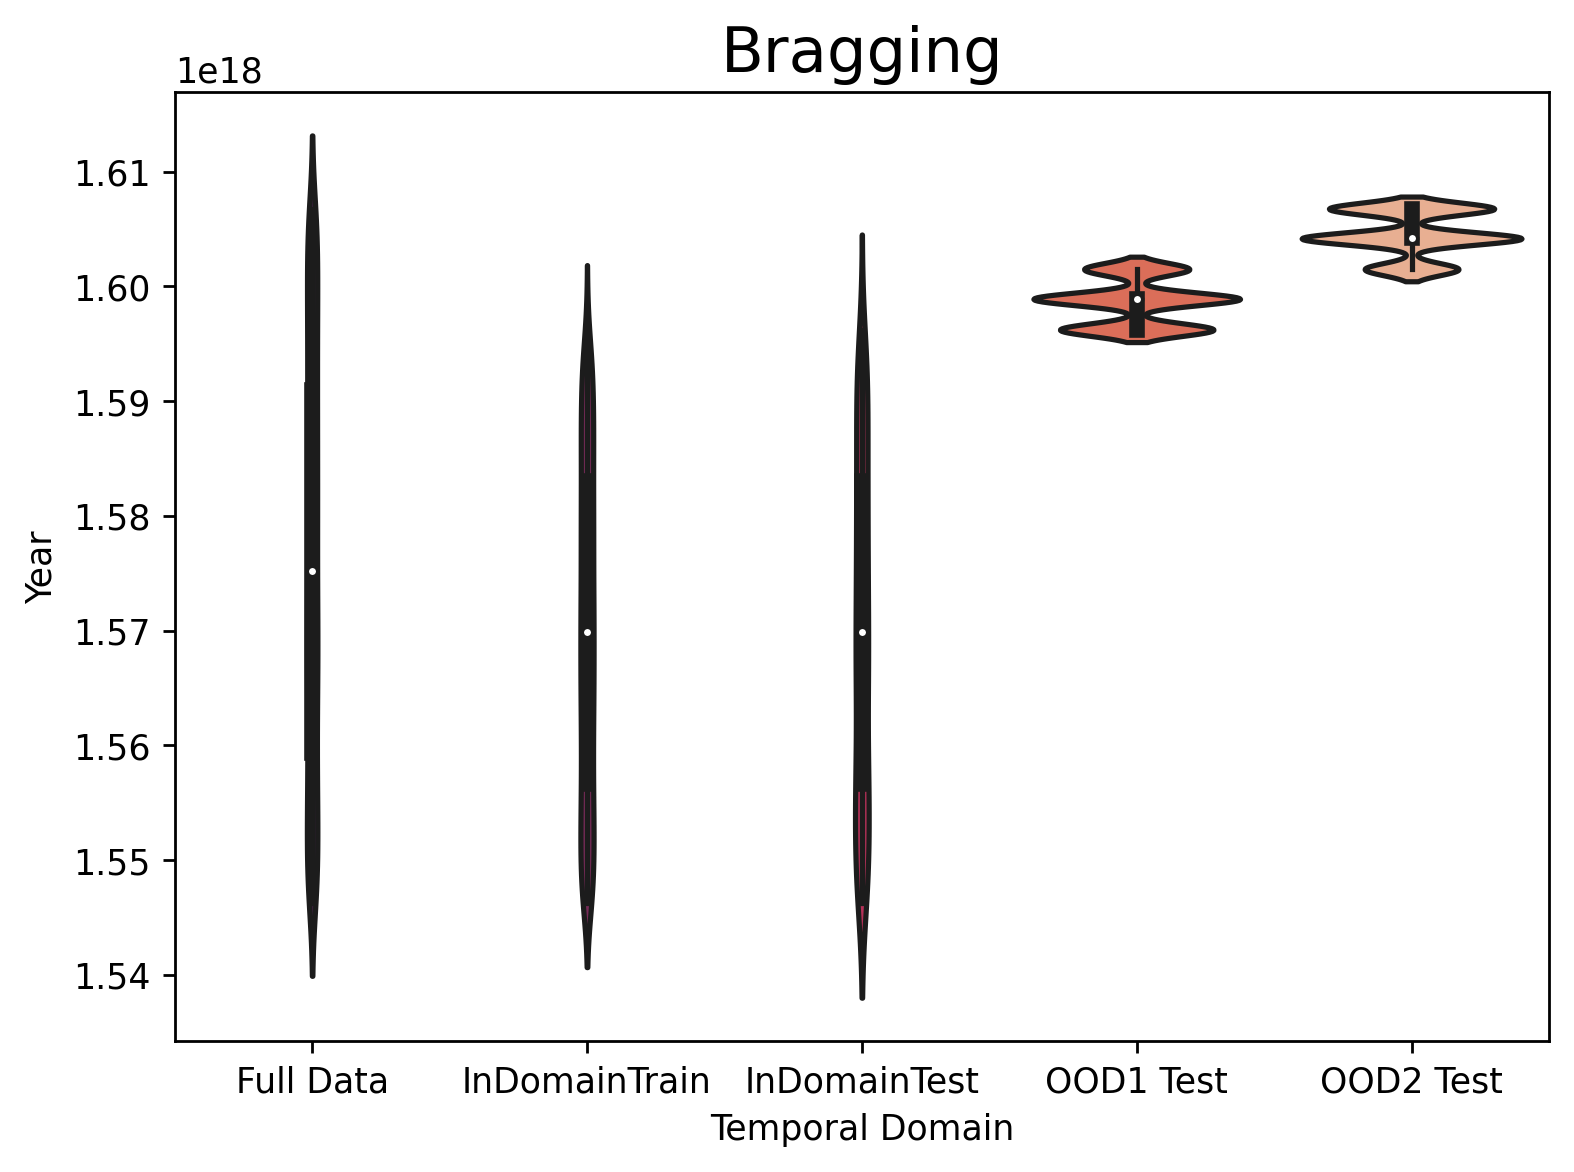
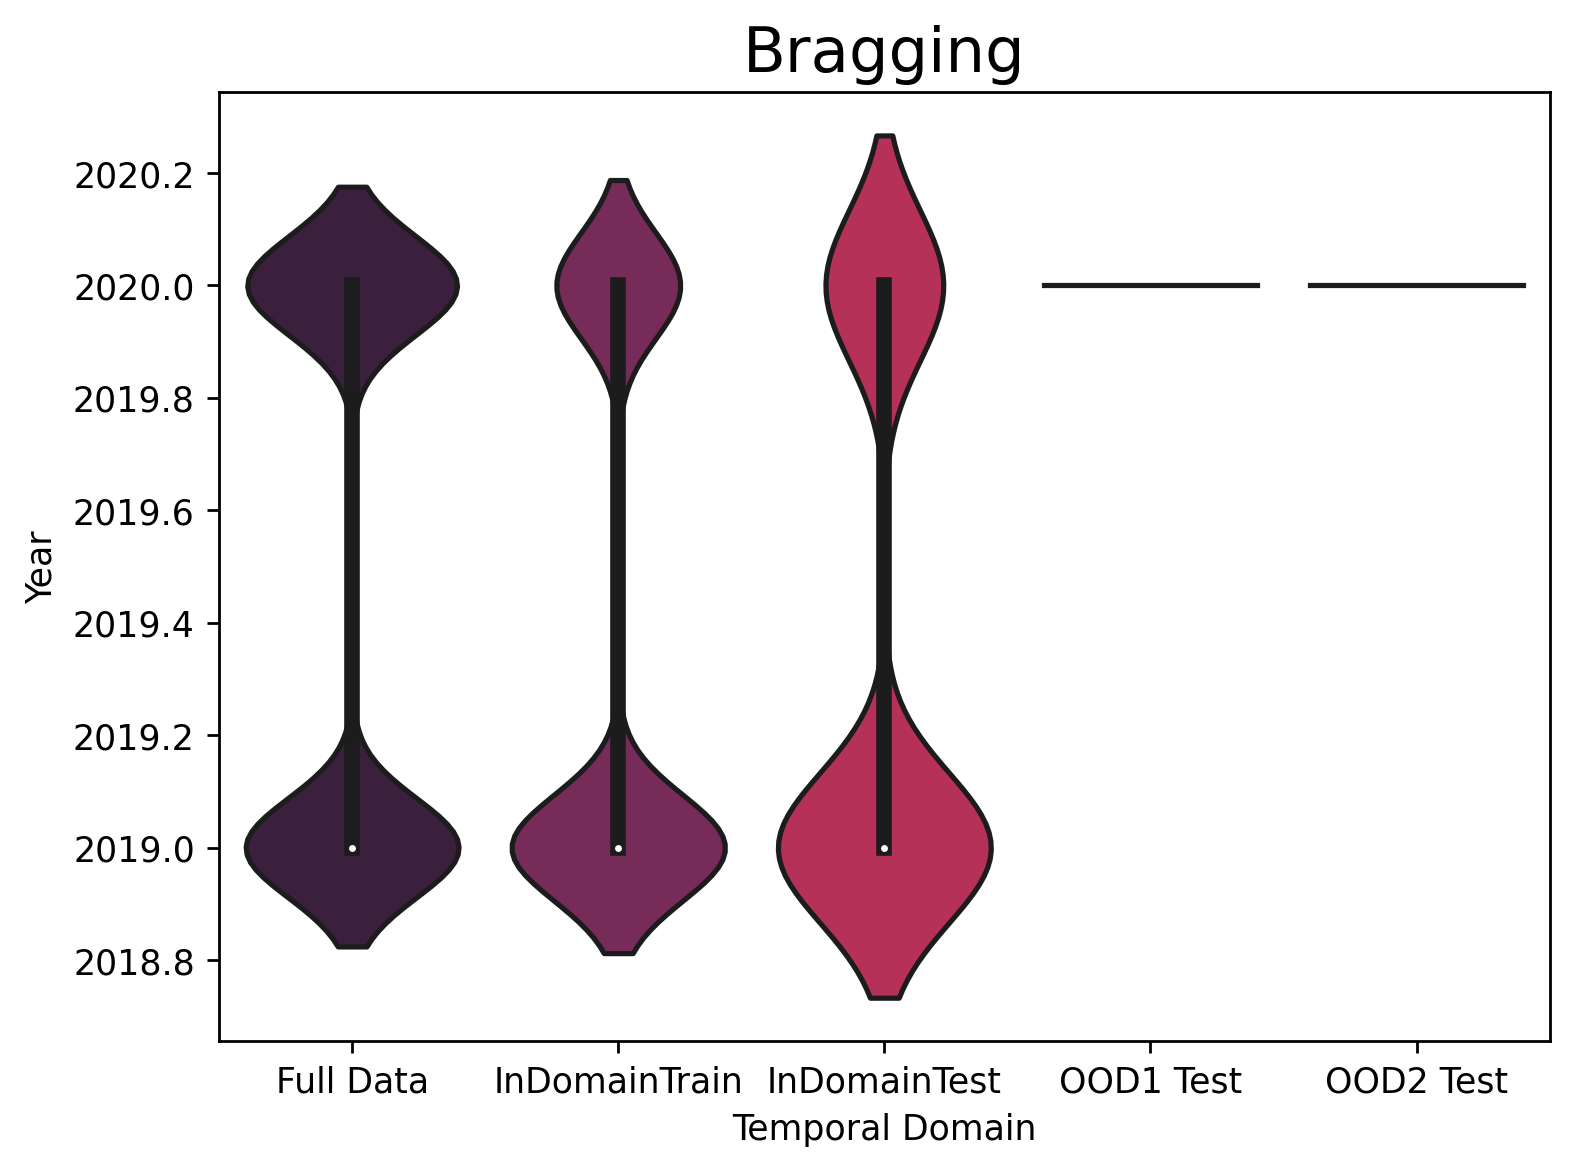
m

diff --git a/save_everything.py b/save_everything.py
@@ -101,11 +101,14 @@ def df2stat_df(df, domain):
         df['date'] = pd.to_datetime(df['date'], errors='coerce', utc=True).dt.date
         df = df.dropna().sort_values(by='date', na_position='first')
 
-    if args.dataset == 'binarybragging':
-        df['Year'] = pd.to_datetime(df['date'].astype(str).str[:4])
-        # df['Year'] = df['date'].astype(str).str[:7]
-    else:
-        df['Year'] = pd.DatetimeIndex(df['date']).year
+    # if args.dataset == 'binarybragging':
+    #     print(df['date'])
+    #     df['Year'] = pd.to_datetime(df['date'].astype(str).str[:4]).dt.date
+    #     print(df['Year'])
+    #     # df['Year'] = df['date'].astype(str).str[:7]
+    # else:
+    #    df['Year'] = pd.DatetimeIndex(df['date']).year
+    df['Year'] = pd.DatetimeIndex(df['date']).year
     df['Temporal Domain'] = str(domain)
 
     stat_df = df[['Year', 'Temporal Domain']]
@@ -157,13 +160,13 @@ if args.plot_time_distribution:
     sns.violinplot(y=df['Year'], x=df['Temporal Domain'], showmedians=True, showextrema=True, palette="rocket",
     scale='width')
     #sns.boxplot(y=df['Year'], x=df['Temporal Domain'], palette="rocket")
-    plt.title('Complaints', fontsize=18)
+    plt.title('Bragging', fontsize=18)
     # plt.ylabel("Percentage")
     #plt.xlabel("Full size", "InDomain Train", "InDomain Test", "OOD1 Test", "OOD2 Test")
     #plt.legend(bbox_to_anchor=(1, 1, 0.28, 0.28), loc='best', borderaxespad=1)
     plt.tight_layout()
     # plt.xticks(fontsize= )
-    plt.savefig('./TimeDist/'+str(args.dataset)+'_vio2.png', bbox_inches = 'tight', dpi=250, format='png')
+    plt.savefig('./TimeDist/'+str(args.dataset)+'_vio.png', bbox_inches = 'tight', dpi=250, format='png')
     plt.show()
 
 # https://stackoverflow.com/questions/59346731/no-handles-with-labels-found-to-put-in-legend
